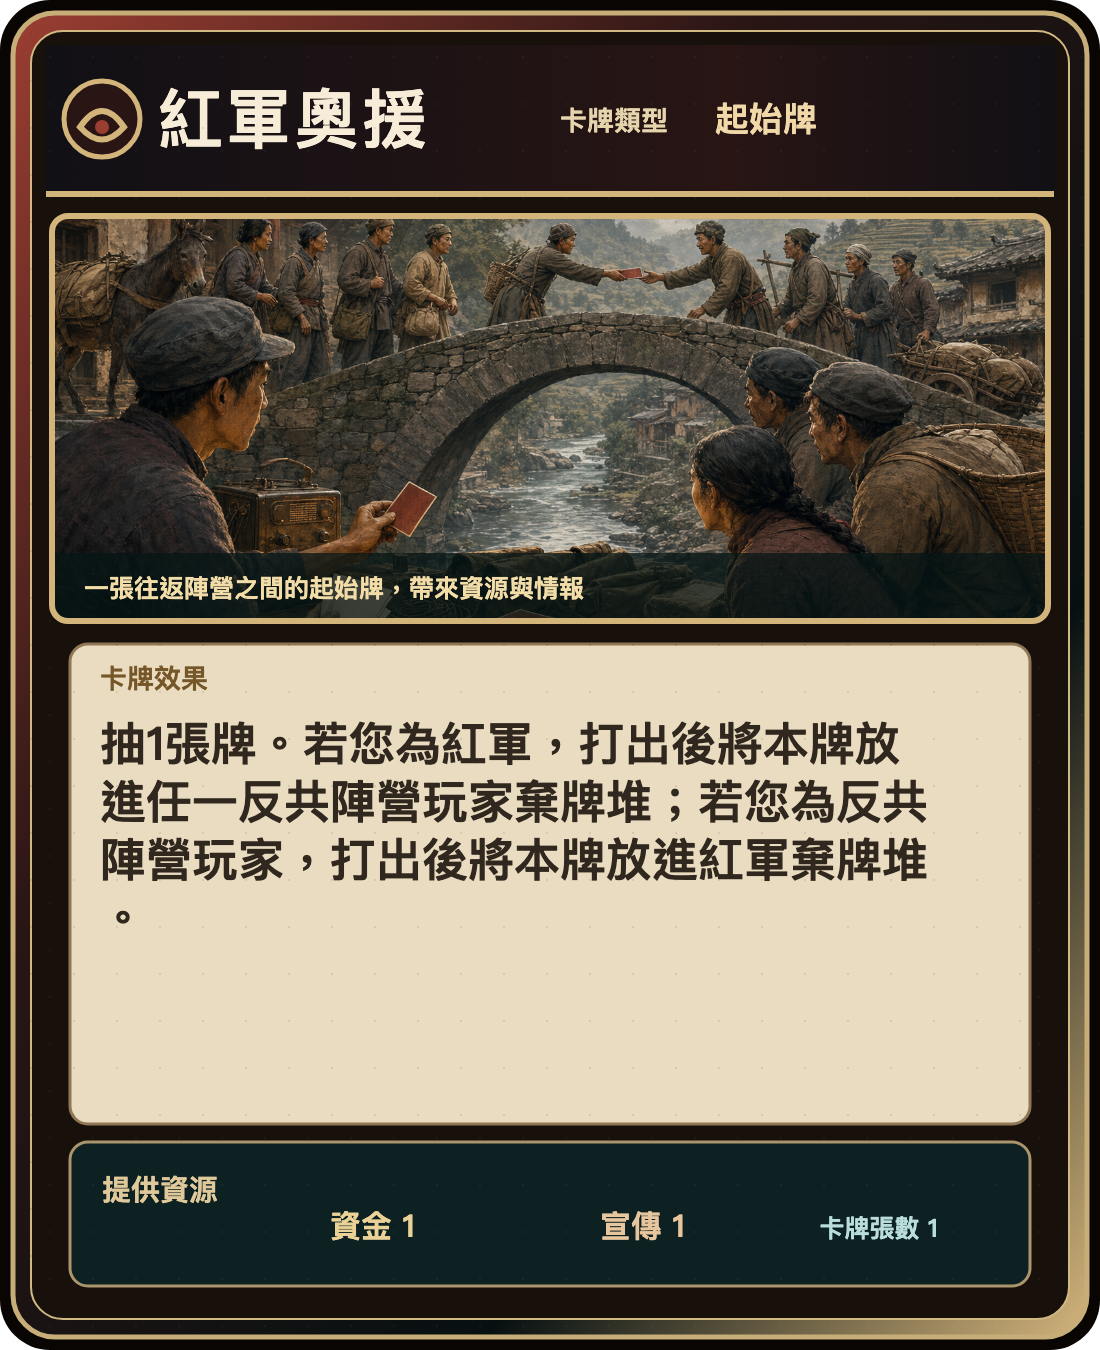
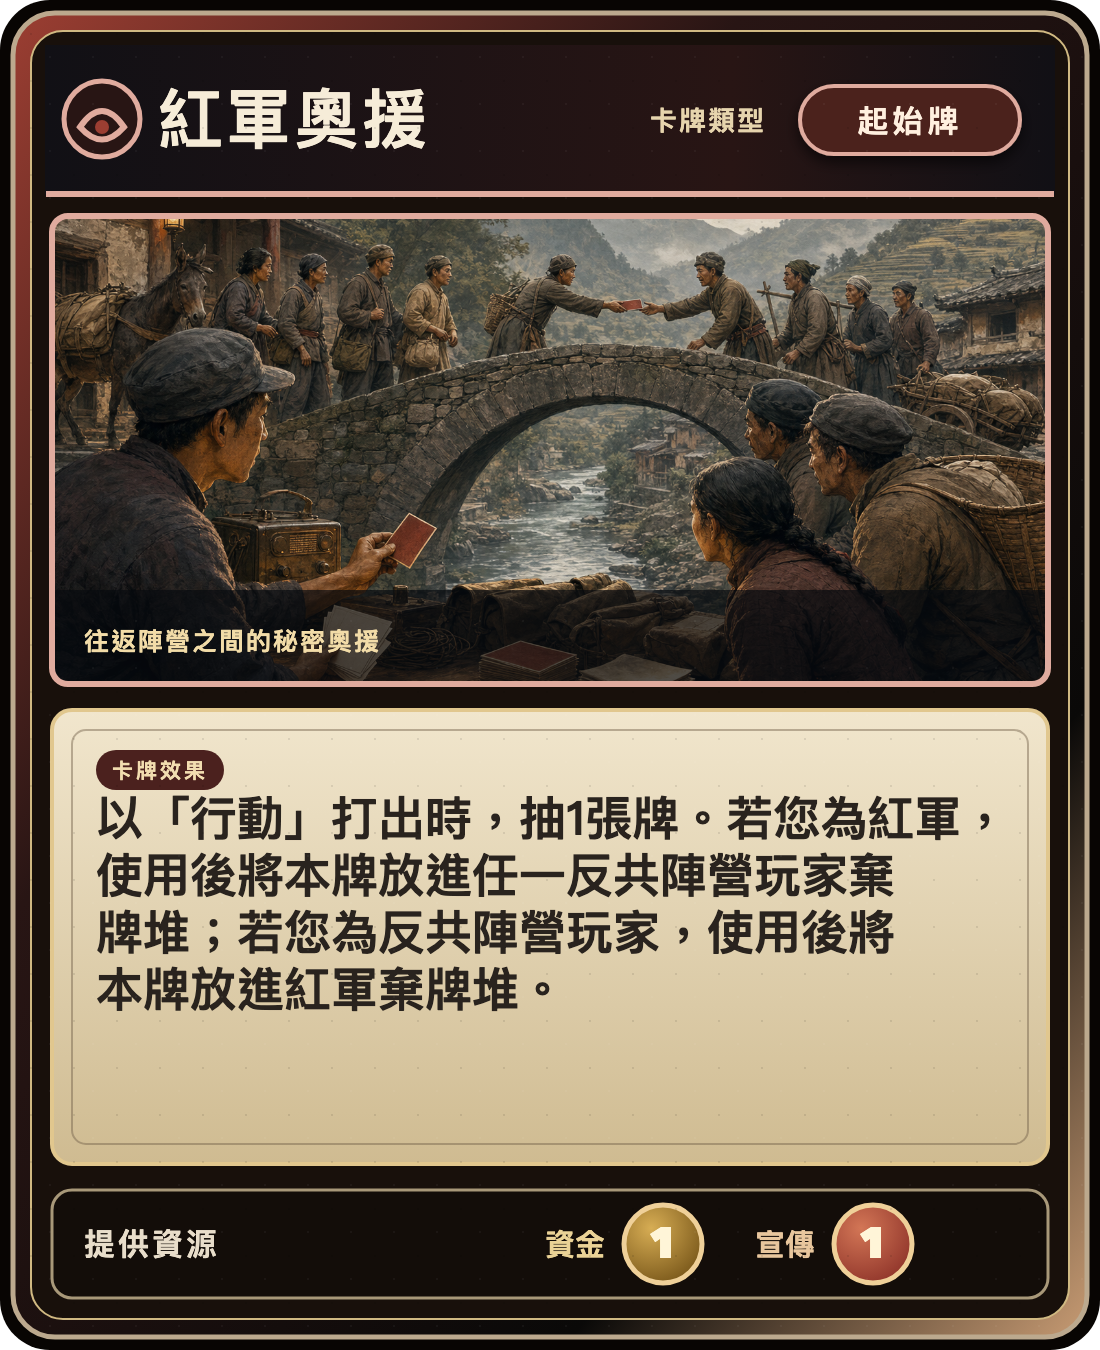
fix: 將紅軍奧援改為行動卡版型

diff --git a/static/app.js b/static/app.js
@@ -806,7 +806,8 @@ function playableCardArtUrl(cardName, variantInfo = null) {
       ? variantInfo.variant_index
       : 0;
     const file = files[requestedIndex] || files[0];
-    return `/static/card-art/support/${encodeURIComponent(file)}`;
+    const version = name === '紅軍奧援' ? '?v=action-card-layout-20260811' : '';
+    return `/static/card-art/support/${encodeURIComponent(file)}${version}`;
   }
   return `/static/card-art/actions/${encodeURIComponent(name)}.png?v=head-safe-20260726`;
 }

diff --git a/static/index.html b/static/index.html
@@ -338,6 +338,6 @@
 
 <script src="https://unpkg.com/leaflet@1.9.4/dist/leaflet.js"></script>
 <script src="/static/player_messages_zh_tw.js?v=player-message-i18n-20260801"></script>
-<script src="/static/app.js?v=era-achievement-reopen-20260809"></script>
+<script src="/static/app.js?v=red-support-action-art-20260811"></script>
 </body>
 </html>

diff --git a/scripts/validate_red_support_action_art_browser.py b/scripts/validate_red_support_action_art_browser.py
@@ -1,0 +1,134 @@
+#!/usr/bin/env python3
+from __future__ import annotations
+
+import json
+import os
+import urllib.request
+from datetime import datetime, timezone
+from pathlib import Path
+
+from playwright.sync_api import sync_playwright
+
+ROOT = Path(__file__).resolve().parent.parent
+BASE_URL = os.environ.get("REDLINE_BASE_URL", "http://127.0.0.1:8000").rstrip("/")
+RECORD_DIR = ROOT / "docs" / "records" / "support-cards" / "red-support-action-art"
+REPORT_JSON = RECORD_DIR / "RED_SUPPORT_ACTION_ART_BROWSER_VALIDATION.json"
+SCREENSHOT = RECORD_DIR / "red_support_action_card_ui.png"
+
+
+def post_json(path: str, payload: dict) -> dict:
+    request = urllib.request.Request(
+        BASE_URL + path,
+        data=json.dumps(payload, ensure_ascii=False).encode("utf-8"),
+        headers={"Content-Type": "application/json"},
+    )
+    with urllib.request.urlopen(request, timeout=20) as response:
+        return json.loads(response.read().decode("utf-8"))
+
+
+def main() -> None:
+    RECORD_DIR.mkdir(parents=True, exist_ok=True)
+    setup = post_json("/test/setup-support-proof", {"support_name": "紅軍奧援", "tier": 1})
+    checks: list[dict] = []
+    console_errors: list[str] = []
+
+    def record(name: str, ok: bool, detail=None) -> None:
+        checks.append({"name": name, "ok": bool(ok), "detail": detail})
+
+    with sync_playwright() as playwright:
+        browser = playwright.chromium.launch(headless=True)
+        page = browser.new_page(viewport={"width": 1440, "height": 1000})
+        page.on("console", lambda message: console_errors.append(message.text) if message.type == "error" else None)
+        page.on("pageerror", lambda error: console_errors.append(str(error)))
+        page.goto(
+            f"{BASE_URL}/?game_id={setup['game_id']}&player_id={setup['player_id']}",
+            wait_until="networkidle",
+        )
+        page.locator("#gameShell").wait_for(state="visible", timeout=15000)
+        page.evaluate(
+            """() => {
+              document.getElementById('closeFactionActionModal')?.click();
+              if (typeof closeEventReveal === 'function') closeEventReveal();
+              if (typeof minimizeEraAchievement === 'function') minimizeEraAchievement();
+            }"""
+        )
+        card = page.locator("#hand .hand-card").filter(has=page.locator("[data-card-name='紅軍奧援']"))
+        card.wait_for(state="visible", timeout=10000)
+        image = card.locator(".playable-card-art-image")
+        image.wait_for(state="visible", timeout=10000)
+        page.wait_for_function(
+            "() => [...document.querySelectorAll('#hand .playable-card-art-image')].some(img => img.alt.includes('紅軍奧援') && img.complete && img.naturalWidth === 1100 && img.naturalHeight === 1350)",
+            timeout=10000,
+        )
+        metrics = image.evaluate(
+            """img => {
+              const imageRect = img.getBoundingClientRect();
+              const faceRect = img.closest('.card-art-face')?.getBoundingClientRect();
+              const buttons = [...img.closest('.hand-card').querySelectorAll('.hand-card-action-btn')]
+                .map(button => ({text: button.textContent.trim(), mode: button.dataset.cardMode}));
+              return {
+                src: img.currentSrc,
+                naturalWidth: img.naturalWidth,
+                naturalHeight: img.naturalHeight,
+                renderedWidth: imageRect.width,
+                renderedHeight: imageRect.height,
+                contained: !!faceRect
+                  && imageRect.left >= faceRect.left - 1
+                  && imageRect.top >= faceRect.top - 1
+                  && imageRect.right <= faceRect.right + 1
+                  && imageRect.bottom <= faceRect.bottom + 1,
+                buttons,
+              };
+            }"""
+        )
+        record(
+            "red_support_uses_cache_busted_action_layout_art",
+            "17_%E7%B4%85%E8%BB%8D%E5%A5%A7%E6%8F%B4_%E8%B5%B7%E5%A7%8B%E7%89%8C.png" in metrics["src"]
+            and "action-card-layout-20260811" in metrics["src"],
+            {"src": metrics["src"]},
+        )
+        record(
+            "red_support_art_has_canonical_full_resolution",
+            metrics["naturalWidth"] == 1100 and metrics["naturalHeight"] == 1350,
+            metrics,
+        )
+        record(
+            "red_support_art_is_fully_contained_in_hand_card",
+            metrics["renderedWidth"] > 0 and metrics["renderedHeight"] > 0 and metrics["contained"],
+            metrics,
+        )
+        record(
+            "red_support_keeps_resource_and_action_modes",
+            metrics["buttons"] == [
+                {"text": "資源", "mode": "resource"},
+                {"text": "行動", "mode": "action"},
+            ],
+            metrics["buttons"],
+        )
+        card.scroll_into_view_if_needed()
+        page.screenshot(path=str(SCREENSHOT), full_page=True)
+        browser.close()
+
+    record("browser_console_has_no_errors", not console_errors, console_errors)
+    report = {
+        "generated_at": datetime.now(timezone.utc).isoformat(),
+        "base_url": BASE_URL,
+        "status": "passed" if all(check["ok"] for check in checks) else "failed",
+        "checks_passed": sum(1 for check in checks if check["ok"]),
+        "checks_total": len(checks),
+        "checks": checks,
+        "console_errors": console_errors,
+        "screenshot": str(SCREENSHOT.relative_to(ROOT)),
+    }
+    REPORT_JSON.write_text(json.dumps(report, ensure_ascii=False, indent=2) + "\n", encoding="utf-8")
+    print(json.dumps({
+        "status": report["status"],
+        "checks_passed": report["checks_passed"],
+        "checks_total": report["checks_total"],
+    }, ensure_ascii=False))
+    if report["status"] != "passed":
+        raise SystemExit(1)
+
+
+if __name__ == "__main__":
+    main()

diff --git a/scripts/validate_red_support_resource_browser.py b/scripts/validate_red_support_resource_browser.py
@@ -88,23 +88,6 @@ def main() -> None:
         )
 
         resource_button.click()
-        page.wait_for_function(
-            """() => window.lastGameState?.pending_choice?.choice_key === 'red_support_target_player'
-              && window.lastGameState?.pending_choice?.mode === 'resource'""",
-            timeout=10000,
-        )
-        pending = page.evaluate("window.lastGameState.pending_choice")
-        record(
-            "resource_mode_preserves_red_discard_target_choice",
-            pending.get("type") == "target_choice"
-            and pending.get("player_id") == setup["player_id"]
-            and len(pending.get("targets") or []) == 1,
-            pending,
-        )
-
-        target_button = page.locator("#choiceModalCards .modal-choice-btn").first
-        target_button.wait_for(state="visible", timeout=10000)
-        target_button.click()
         actor_id_json = json.dumps(setup["player_id"])
         page.wait_for_function(
             f"""() => {{
@@ -122,15 +105,20 @@ def main() -> None:
         actor = next(player for player in state["players"] if player["id"] == setup["player_id"])
         target = next(player for player in state["players"] if player["id"] == setup["red_player_id"])
         record(
+            "resource_mode_finishes_without_discard_target_choice",
+            state.get("pending_choice") is None,
+            {"pending_choice": state.get("pending_choice")},
+        )
+        record(
             "resource_mode_grants_exactly_one_money_and_one_propaganda_without_draw",
             actor.get("resources") == {"money": 1, "propaganda": 1}
             and actor.get("hand") == [],
             {"resources": actor.get("resources"), "hand": actor.get("hand")},
         )
         record(
-            "red_support_moves_to_selected_anti_red_discard",
-            target.get("discard_pile") == ["紅軍奧援"]
-            and actor.get("discard_pile") == [],
+            "resource_mode_discards_red_support_to_its_users_own_discard",
+            actor.get("discard_pile") == ["紅軍奧援"]
+            and target.get("discard_pile") == [],
             {"actor_discard": actor.get("discard_pile"), "target_discard": target.get("discard_pile")},
         )
 

diff --git a/TODO.md b/TODO.md
@@ -112,7 +112,8 @@
   - **確認並修正 9 類缺陷**：(1) 印度奧援憑空建立分神、未扣固定供應；(2) 印度研究分析室漏掉延後反應且未推進 `use_faction_ability`；(3) 取消北國奧援未恢復 `played_nonstarter_names`；(4) 借用北國奧援已回原持有者牌庫頂後無法取消回手；(5) 東洋／天方／北國／臺灣效果未完整把共用組織視為起點、目標或犧牲對象；(6) 臺灣奧援 III 首次命中紅軍根據地已部分成功卻回傳整體錯誤；(7) 互動奧援 resolve-time 目標失效會消耗流程並可能卡住；(8) 起始牌紅軍奧援被誤算為 1資金＋1宣傳購買費用，導致取消 bonus 判斷錯誤；(9) 正式 UI 的其他玩家動態疊層會遮住有時限的取消反應視窗。
   - **核心修正**：集中固定購買供應 helper；印度旗幟能力移入 committed-card hook；北國取消跨 zone 還原實體借用牌與所有出牌快照；奧援距離／目標統一使用 `_organization_towns_for_player()`／`_shared_origin_owner()`；stale choice 重算候選；臺灣首次紅軍根據地命中回傳 `success/built=False`；紅軍奧援購買費用歸零；pending reaction 優先於通知轉播。
   - **驗證**：新增 `scripts/tests/test_support_card_hook_audit.py`，涵蓋九系列 hook、印度供應與事件、取消提交、共用組織、借用北國回滾、stale target、紅軍奧援零費用等；完整 pytest 最終全綠。正式雙玩家 Browser proof 驗證印度奧援 III、紅軍取消詢問／不取消、有限分神供應、印度研究分析室、事件進度、卡牌只棄置一次及反應視窗不被遮住，**9/9 passed**。費用組成 validator **9/9 passed**；JS syntax、Python compile、`git diff --check` 通過。完整矩陣與證據位於 `docs/records/support-cards/hook-audit/`。
-  - **2026-08-07 後續裁決｜紅軍奧援資源模式**：使用者確認紅軍奧援應可用「資源」方式取得 **1資金＋1宣傳**，覆蓋 2026-06-07 對一般奧援「資源模式只棄置」的舊裁決；紅軍奧援是唯一例外。Runtime 將「印刷資源 1/1」與「起始牌購買費用 0/0」分離：資源模式不抽牌；紅軍使用後仍選擇任一反共玩家棄牌堆，反共玩家使用後則回紅軍棄牌堆。正式 UI 第一顆按鈕由「棄置」改為「資源」，普通奧援維持「棄置」。新增紅軍／反共 × 行動／資源四象限測試與正式 Browser proof。
+  - **2026-08-07 後續裁決｜紅軍奧援資源模式**：使用者確認紅軍奧援應可用「資源」方式取得 **1資金＋1宣傳**，覆蓋 2026-06-07 對一般奧援「資源模式只棄置」的舊裁決；紅軍奧援是唯一例外。Runtime 將「印刷資源 1/1」與「起始牌購買費用 0/0」分離：資源模式不抽牌並直接進使用者自己的棄牌堆；行動模式才抽牌並依陣營流轉（紅軍使用後選擇任一反共玩家棄牌堆，反共玩家使用後回紅軍棄牌堆）。正式 UI 第一顆按鈕由「棄置」改為「資源」，普通奧援維持「棄置」。新增紅軍／反共 × 行動／資源四象限測試與正式 Browser proof。
+  - **2026-08-11 卡面設計修正**：使用者指出紅軍奧援的玩法更接近一般行動卡，不應沿用普通奧援的三級條件版型。卡面已改用一般行動卡資訊架構：上方標示「起始牌」、中段主插圖、單一「卡牌效果」框明確標示只有行動模式會抽牌並進行陣營間流轉、底列以標準資源圓章呈現 **1資金＋1宣傳**；保留紅軍專屬紅色識別。前端為該圖片加入獨立 cache bust，正式 Browser proof 驗證 1100×1350 圖片完整載入、未裁切、按鈕仍為「資源／行動」、console 0 errors，**5/5 passed**；資源模式現行語意 Browser regression **5/5 passed**，完整 pytest **334/334 passed**。證據位於 `docs/records/support-cards/red-support-action-art/`。
   - **資料層備註**：`support_taxonomy.v1.1.json` 的 `tier_*_kind` 只是摘要，尚不足以單獨表達抽後棄牌、先犧牲後瓦解、瓦解後同地建立等複合效果；runtime mapping 已按完整卡面實作並通過稽核。若未來要讓 taxonomy 可直接執行，需另做 schema 升級。
 
 ### P1：等待必要選擇時封鎖無關盤面操作
@@ -216,8 +217,8 @@
   - 修法：把上述分支的 `else` 補上 `exitMovementSelection()`，讓「點不相關城鎮」比照「點空白背景」同樣視為取消整個選擇（`static/leaflet_game_map_logic.js:1041-1049`）。點擊「合法的另一個移動目的地」不受影響（`moveOptionForTown` 那個分支在更上面，會先攔截、直接改選新目的地）；點擊「另一個自己可行動的城鎮」也不受影響（`canActFromTown` 為真時走 `selectTownForCurrentMapAction` 改選新起點，不是取消）。`#cancelMoveBtn`（取消目的地・保留起點）按鈕本身沒有動——它是「只清目的地、保留起點」的更精確操作，跟這次「點別處＝整個取消」是互補的兩種操作，沒有移除。
   - 驗證：Playwright 對真實瀏覽器（`/test/setup-enemy-occupancy-proof`）——選取東沙（合法目的地：屏東／觀塘）→ 直接觸發合法目的地屏東的 `pendingMoveTarget`、確認 `#confirmMoveBtn` 變啟用 → 對不相關城鎮瀋陽（紅軍城鎮，非合法目的地、玩家也無法從該城鎮行動）觸發真正的 marker `click` 事件（非直接改變數值）→ 確認 `selectedTown`／`pendingMoveTarget`／`selectedMoveTargets` 全部清空、`#confirmMoveBtn` 變回停用。另外重跑「改選另一個合法目的地（觀塘）」確認仍正確改選、未被誤判成取消。純前端 JS 變更，不影響後端；完整 pytest 269/269 全過（無變動，與此改動無關）。
 
-### P2：行動預告的按鈕似乎可以 disable
-- [todo] 使用者回報：行動預告看起來是被動觸發的，所以感覺行動的按鈕可以 disable。（2026-08-05 使用者回報，先記錄，尚未調查）
+### P2：行動預告／行動募資使用時機（舊待查項目，已由後續裁決完成）
+- [done] 這兩張卡不是「只能被動觸發，因此停用行動按鈕」。使用者後續明確裁決並已完成實作：玩家打出卡牌時立刻取得卡面資源並累積一次頂牌權利；購買完卡牌後、結束回合前可主動按「頂牌 (N)」選擇本回合購得的牌置於牌庫頂；若尚未手動處理，結束回合時系統再自動提示。多張卡可累積多次權利。完整實作與驗證記錄見前文「行動預告／行動募資的頂牌應改為玩家主動觸發」。
 
 ### P0：第11回合抽到『上海合作組織』，非紅軍陣營完成回合後雙方卡住無法執行任何步驟（疑似真 soft-lock）
 - [done] 使用者playtest回報（本 session 最高嚴重度）：到了第十一回合，事件卡抽到『上海合作組織』，當非紅軍陣營完成回合時，雙方都卡住，無法執行任何步驟。2 人局（非紅軍座位「dafdsaf」＋紅軍）。附的 action_log 顯示『上海合作組織』先成功 auto 套用過一次，之後又被重抽一次並停在 `(auto deferred)`，遊戲此後再也推不動。（2026-08-05 使用者回報，直接從回報進入調查與修正）
